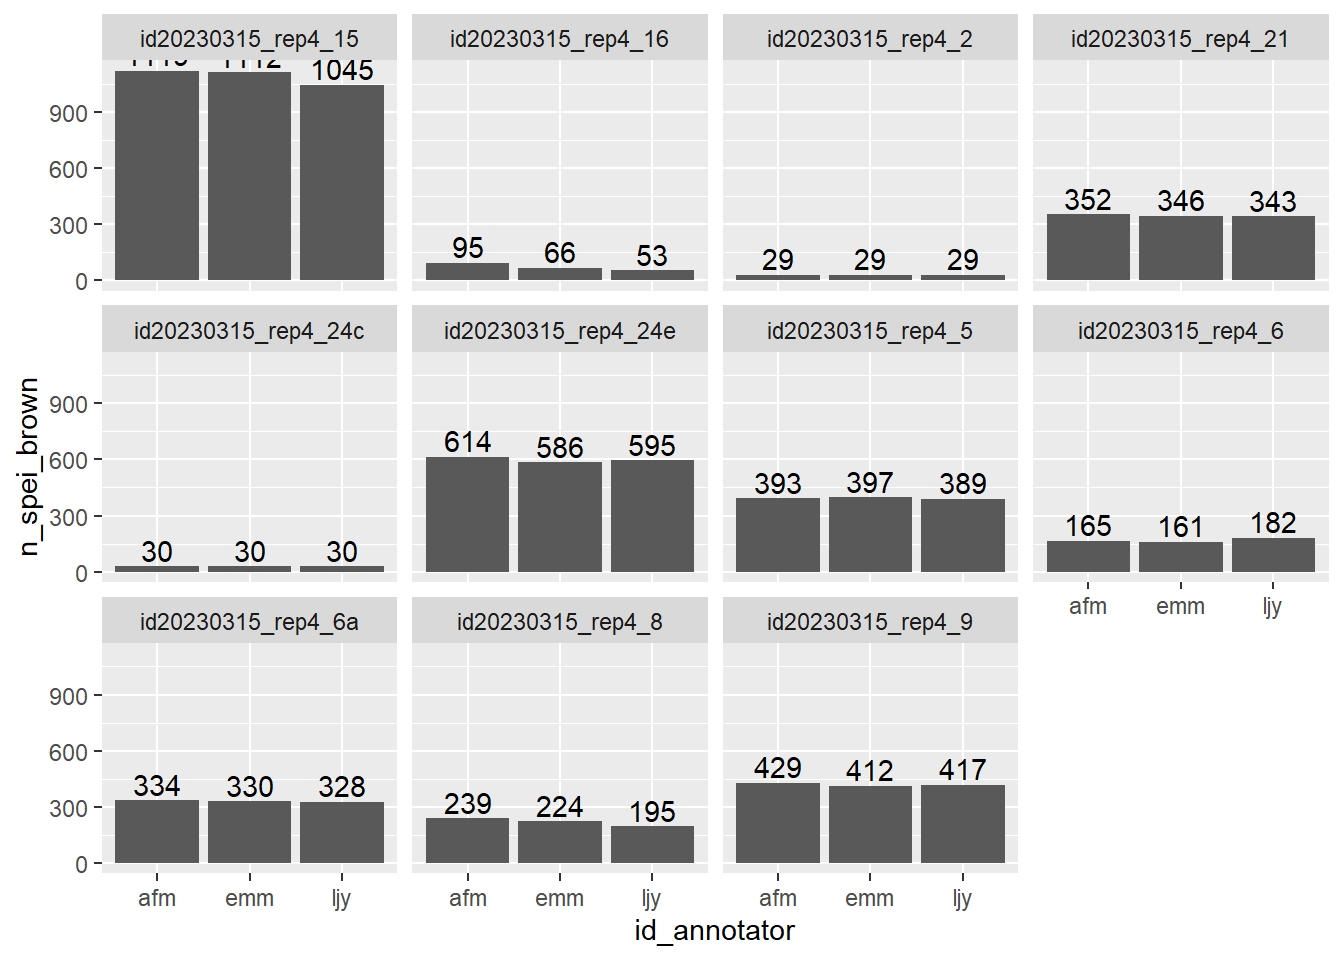
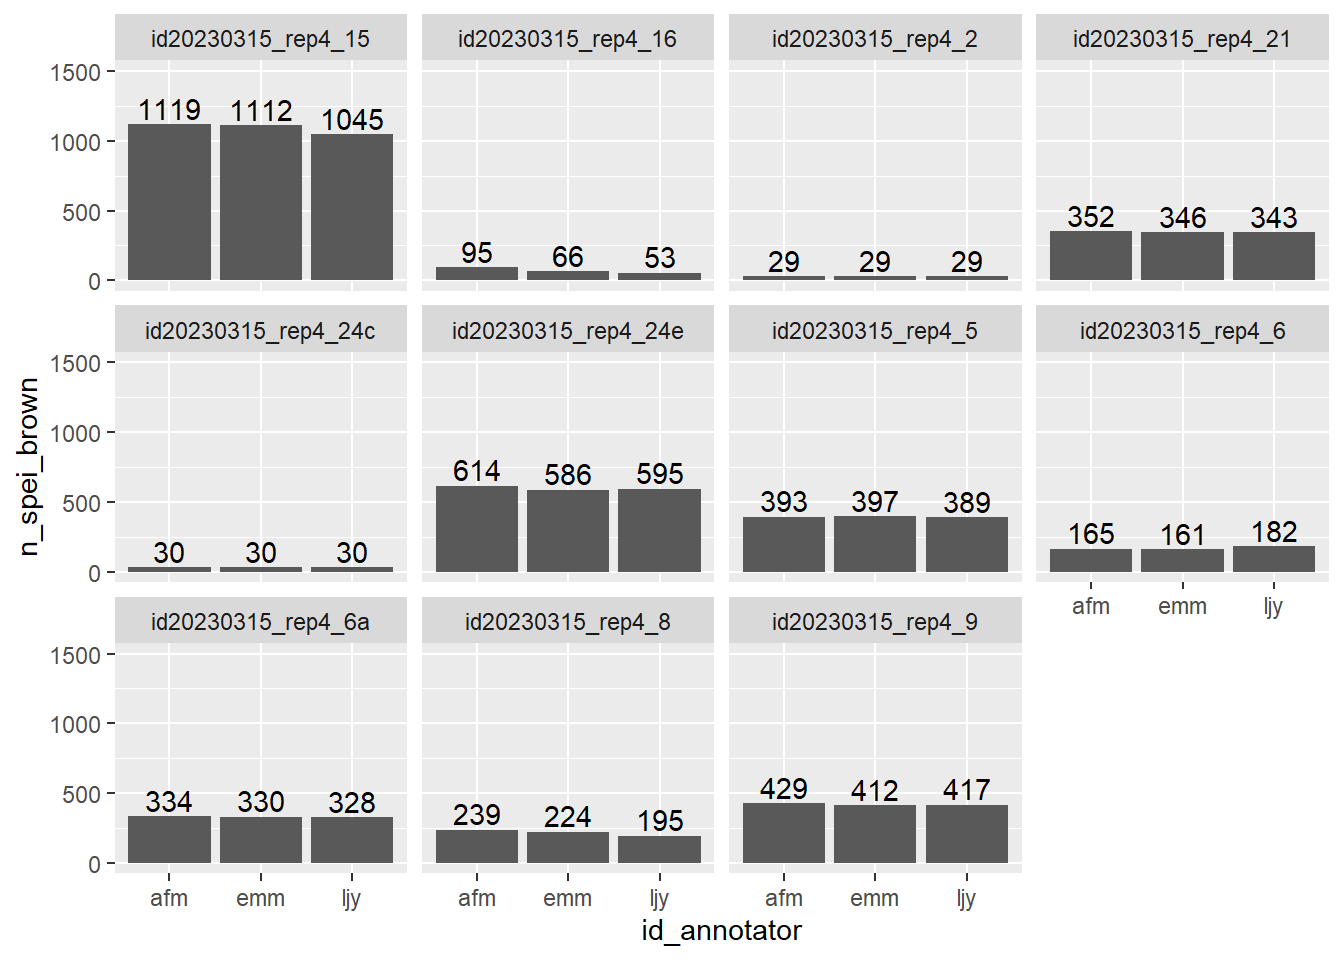
Build site.

diff --git a/docs/compare_annotator_counts.html b/docs/compare_annotator_counts.html
@@ -461,15 +461,15 @@ project makes it easier to run your code on other machines.</p>
 <div class="panel panel-default">
 <div class="panel-heading">
 <p class="panel-title">
-<a data-toggle="collapse" data-parent="#workflowr-checks" href="#strongRepositoryversionstrongahrefhttpsgithubcomDJRIZZspeiwinterflockimageprocessingtree28fb15dd9af657801d1e0bf12053b7ae424de57dtargetblank28fb15da">
+<a data-toggle="collapse" data-parent="#workflowr-checks" href="#strongRepositoryversionstrongahrefhttpsgithubcomDJRIZZspeiwinterflockimageprocessingtreebf00979ac152ace7b9c26d6c8b303980af22c32ctargetblankbf00979a">
 <span class="glyphicon glyphicon-ok text-success"
 aria-hidden="true"></span> <strong>Repository version:</strong>
-<a href="https://github.com/DJRIZZ/spei_winter_flock_image_processing/tree/28fb15dd9af657801d1e0bf12053b7ae424de57d" target="_blank">28fb15d</a>
+<a href="https://github.com/DJRIZZ/spei_winter_flock_image_processing/tree/bf00979ac152ace7b9c26d6c8b303980af22c32c" target="_blank">bf00979</a>
 </a>
 </p>
 </div>
 <div
[2 lines of base64/hex data omitted]
 class="panel-collapse collapse">
 <div class="panel-body">
 <p>
@@ -479,7 +479,7 @@ reproducibility.
 </p>
 <p>
 The results in this page were generated with repository version
-<a href="https://github.com/DJRIZZ/spei_winter_flock_image_processing/tree/28fb15dd9af657801d1e0bf12053b7ae424de57d" target="_blank">28fb15d</a>.
+<a href="https://github.com/DJRIZZ/spei_winter_flock_image_processing/tree/bf00979ac152ace7b9c26d6c8b303980af22c32c" target="_blank">bf00979</a>.
 See the <em>Past versions</em> tab to see a history of the changes made
 to the R Markdown and HTML files.
 </p>
@@ -496,6 +496,7 @@ were generated:
 Ignored files:
     Ignored:    .Rproj.user/
     Ignored:    admin/
+    Ignored:    analysis/figure/
     Ignored:    data/images_2023/
     Ignored:    data/spei_winterSurvey2023_photographedFlockList_20231009.xlsx
     Ignored:    data/spei_winterSurvey_imageList_20231009.xlsx
@@ -565,6 +566,40 @@ Message
 </tr>
 </thead>
 <tbody>
+<tr>
+<td>
+Rmd
+</td>
+<td>
+<a href="https://github.com/DJRIZZ/spei_winter_flock_image_processing/blob/bf00979ac152ace7b9c26d6c8b303980af22c32c/analysis/compare_annotator_counts.Rmd" target="_blank">bf00979</a>
+</td>
+<td>
+Daniel Rizzolo
+</td>
+<td>
+2023-11-07
+</td>
+<td>
+changed git ignore file to allow figures
+</td>
+</tr>
+<tr>
+<td>
+html
+</td>
+<td>
+<a href="https://rawcdn.githack.com/DJRIZZ/spei_winter_flock_image_processing/aa22644aa4728dfb6adce015ecc86d444c6c1a65/docs/compare_annotator_counts.html" target="_blank">aa22644</a>
+</td>
+<td>
+Daniel Rizzolo
+</td>
+<td>
+2023-11-07
+</td>
+<td>
+Build site.
+</td>
+</tr>
 <tr>
 <td>
 Rmd
@@ -735,19 +770,21 @@ p.spei_white &lt;-
   ggplot(compare, aes(id_annotator, n_spei_white)) +
   geom_bar(position=&quot;dodge&quot;,stat=&quot;identity&quot;) +
   geom_text(aes(label=n_spei_white), position=position_dodge(width=0.9), vjust=-0.25) +
+  ylim(0, 1500) +
   facet_wrap(~compare$new_id_flock)
 p.spei_white</code></pre>
 <p><img src="figure/compare_annotator_counts.Rmd/plot%20counts%20spei%20white-1.png" width="672" style="display: block; margin: auto;" />
-brown plumage</p>
+Brown plumage</p>
 <pre class="r"><code># plot counts for comparison
 p.spei_brown &lt;-
   ggplot(compare, aes(id_annotator, n_spei_brown)) +
   geom_bar(position=&quot;dodge&quot;,stat=&quot;identity&quot;) +
   geom_text(aes(label=n_spei_brown), position=position_dodge(width=0.9), vjust=-0.25) +
+  ylim(0, 1500) +
   facet_wrap(~compare$new_id_flock)
 p.spei_brown</code></pre>
 <p><img src="figure/compare_annotator_counts.Rmd/plot%20counts%20spei%20brown-1.png" width="672" style="display: block; margin: auto;" />
-mottled plumage</p>
+Mottled plumage</p>
 <pre class="r"><code># plot counts for comparison
 p.spei_mottled &lt;-
   ggplot(compare, aes(id_annotator, n_spei_mottled)) +
